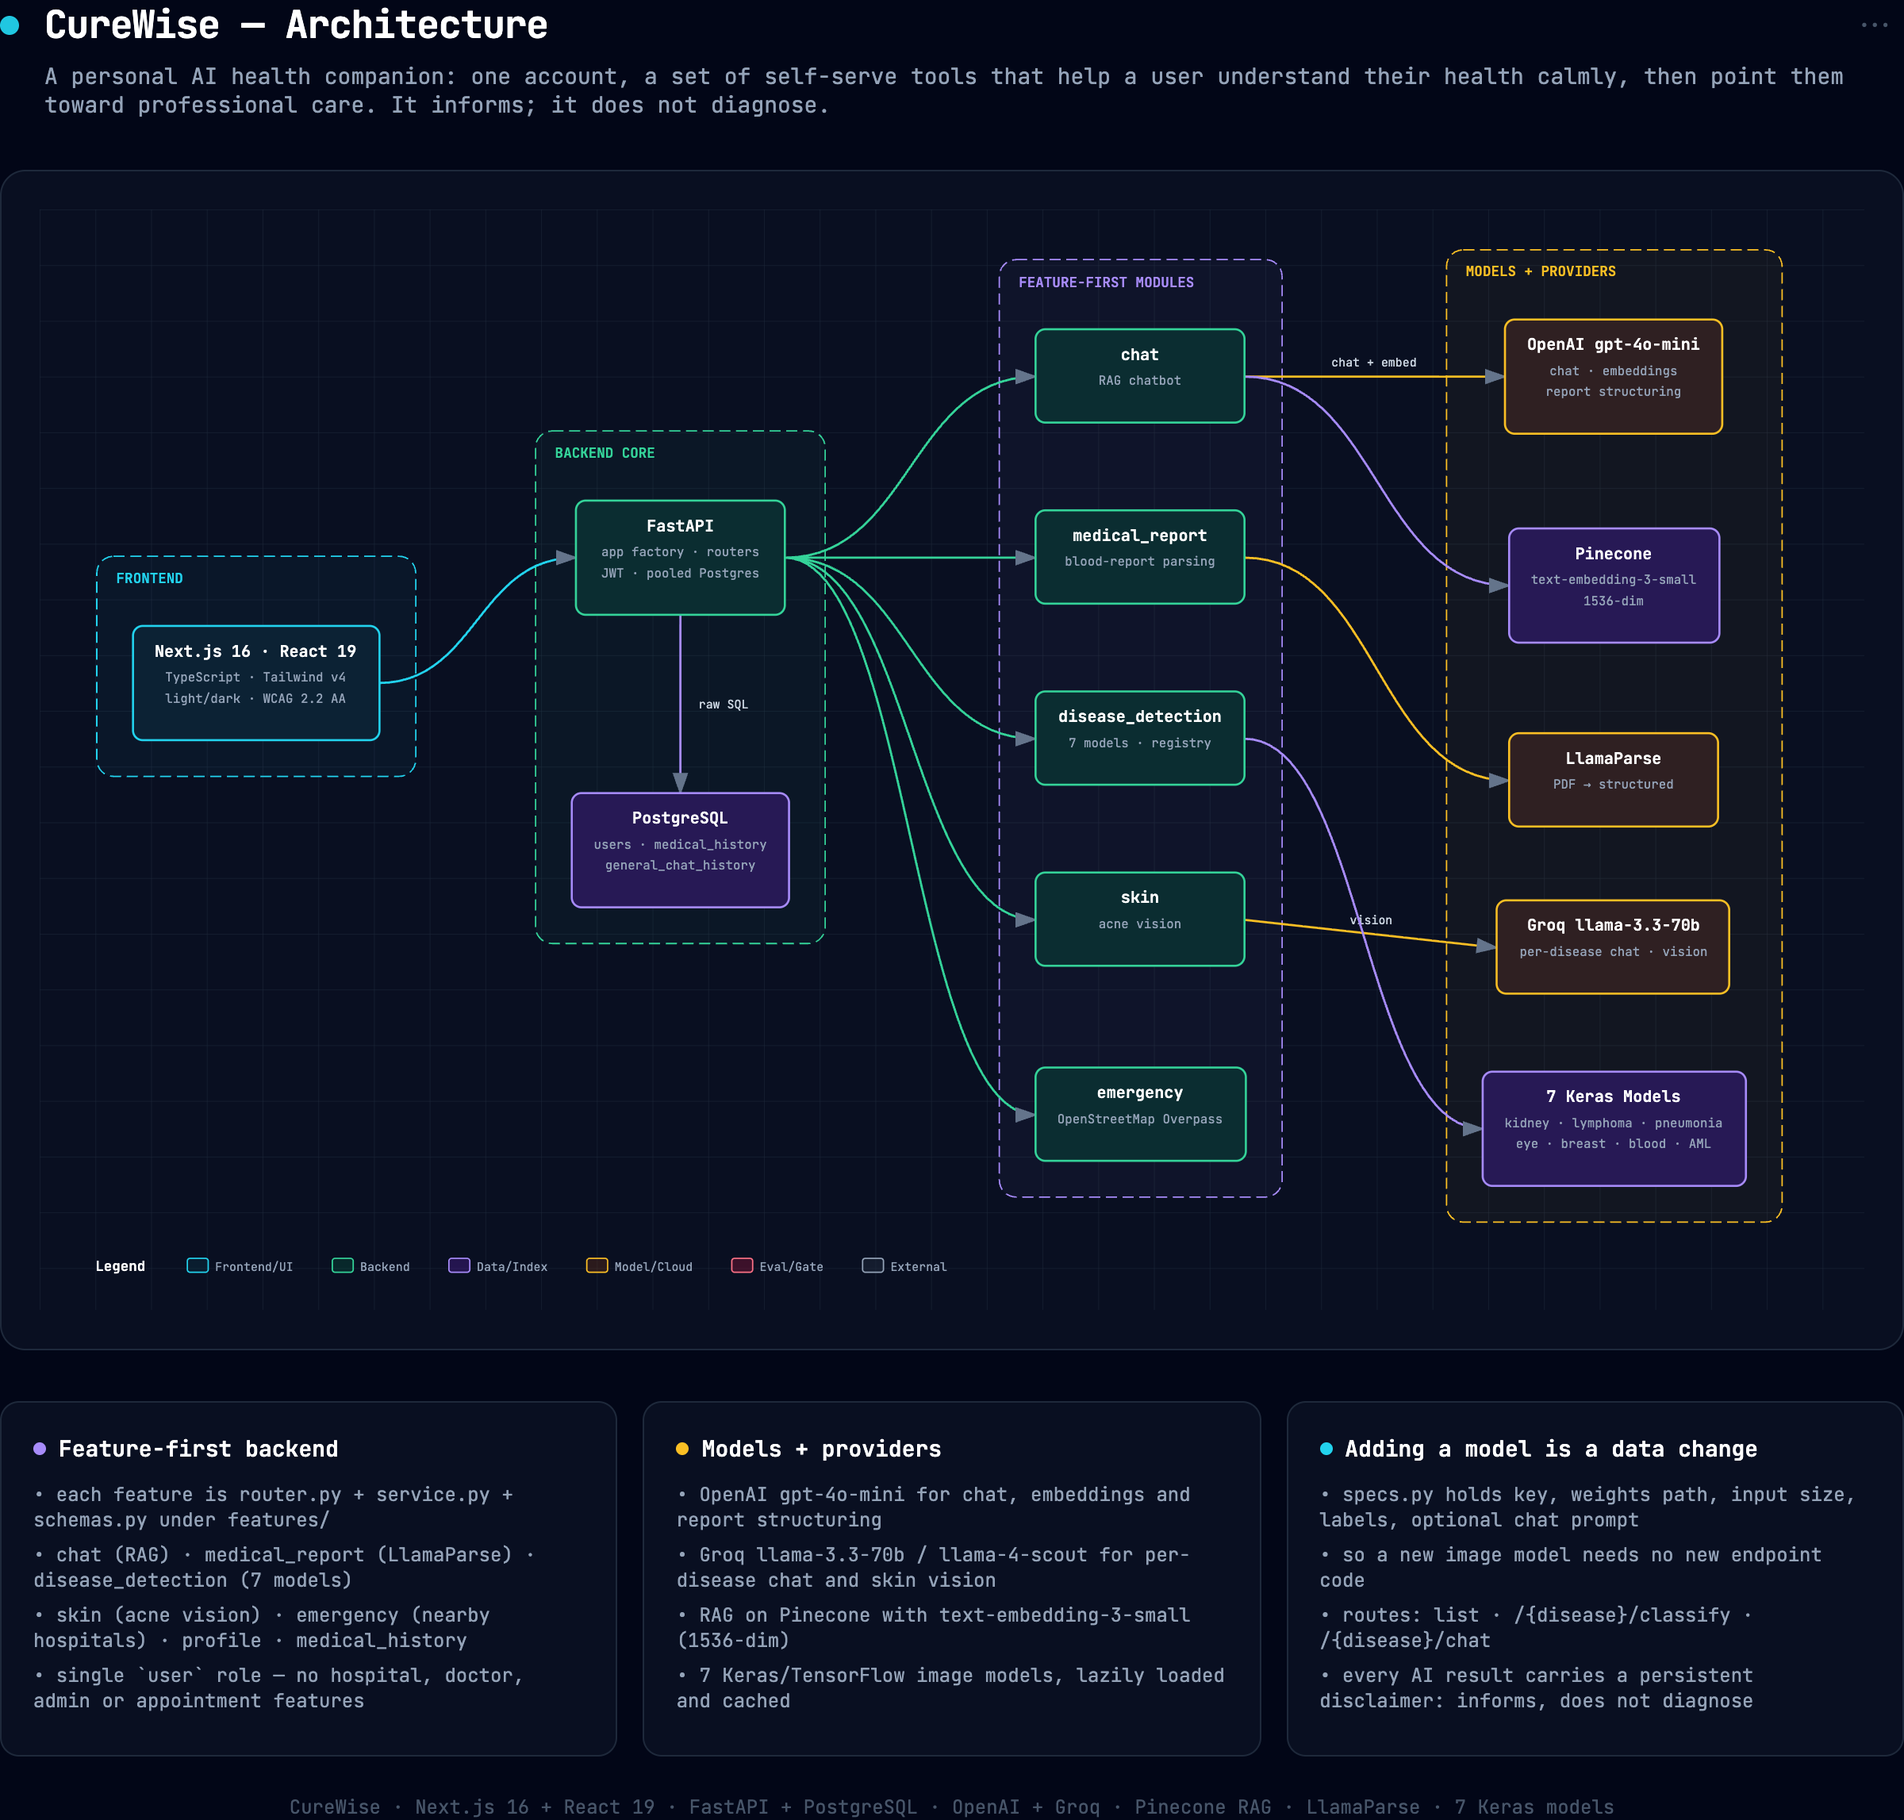
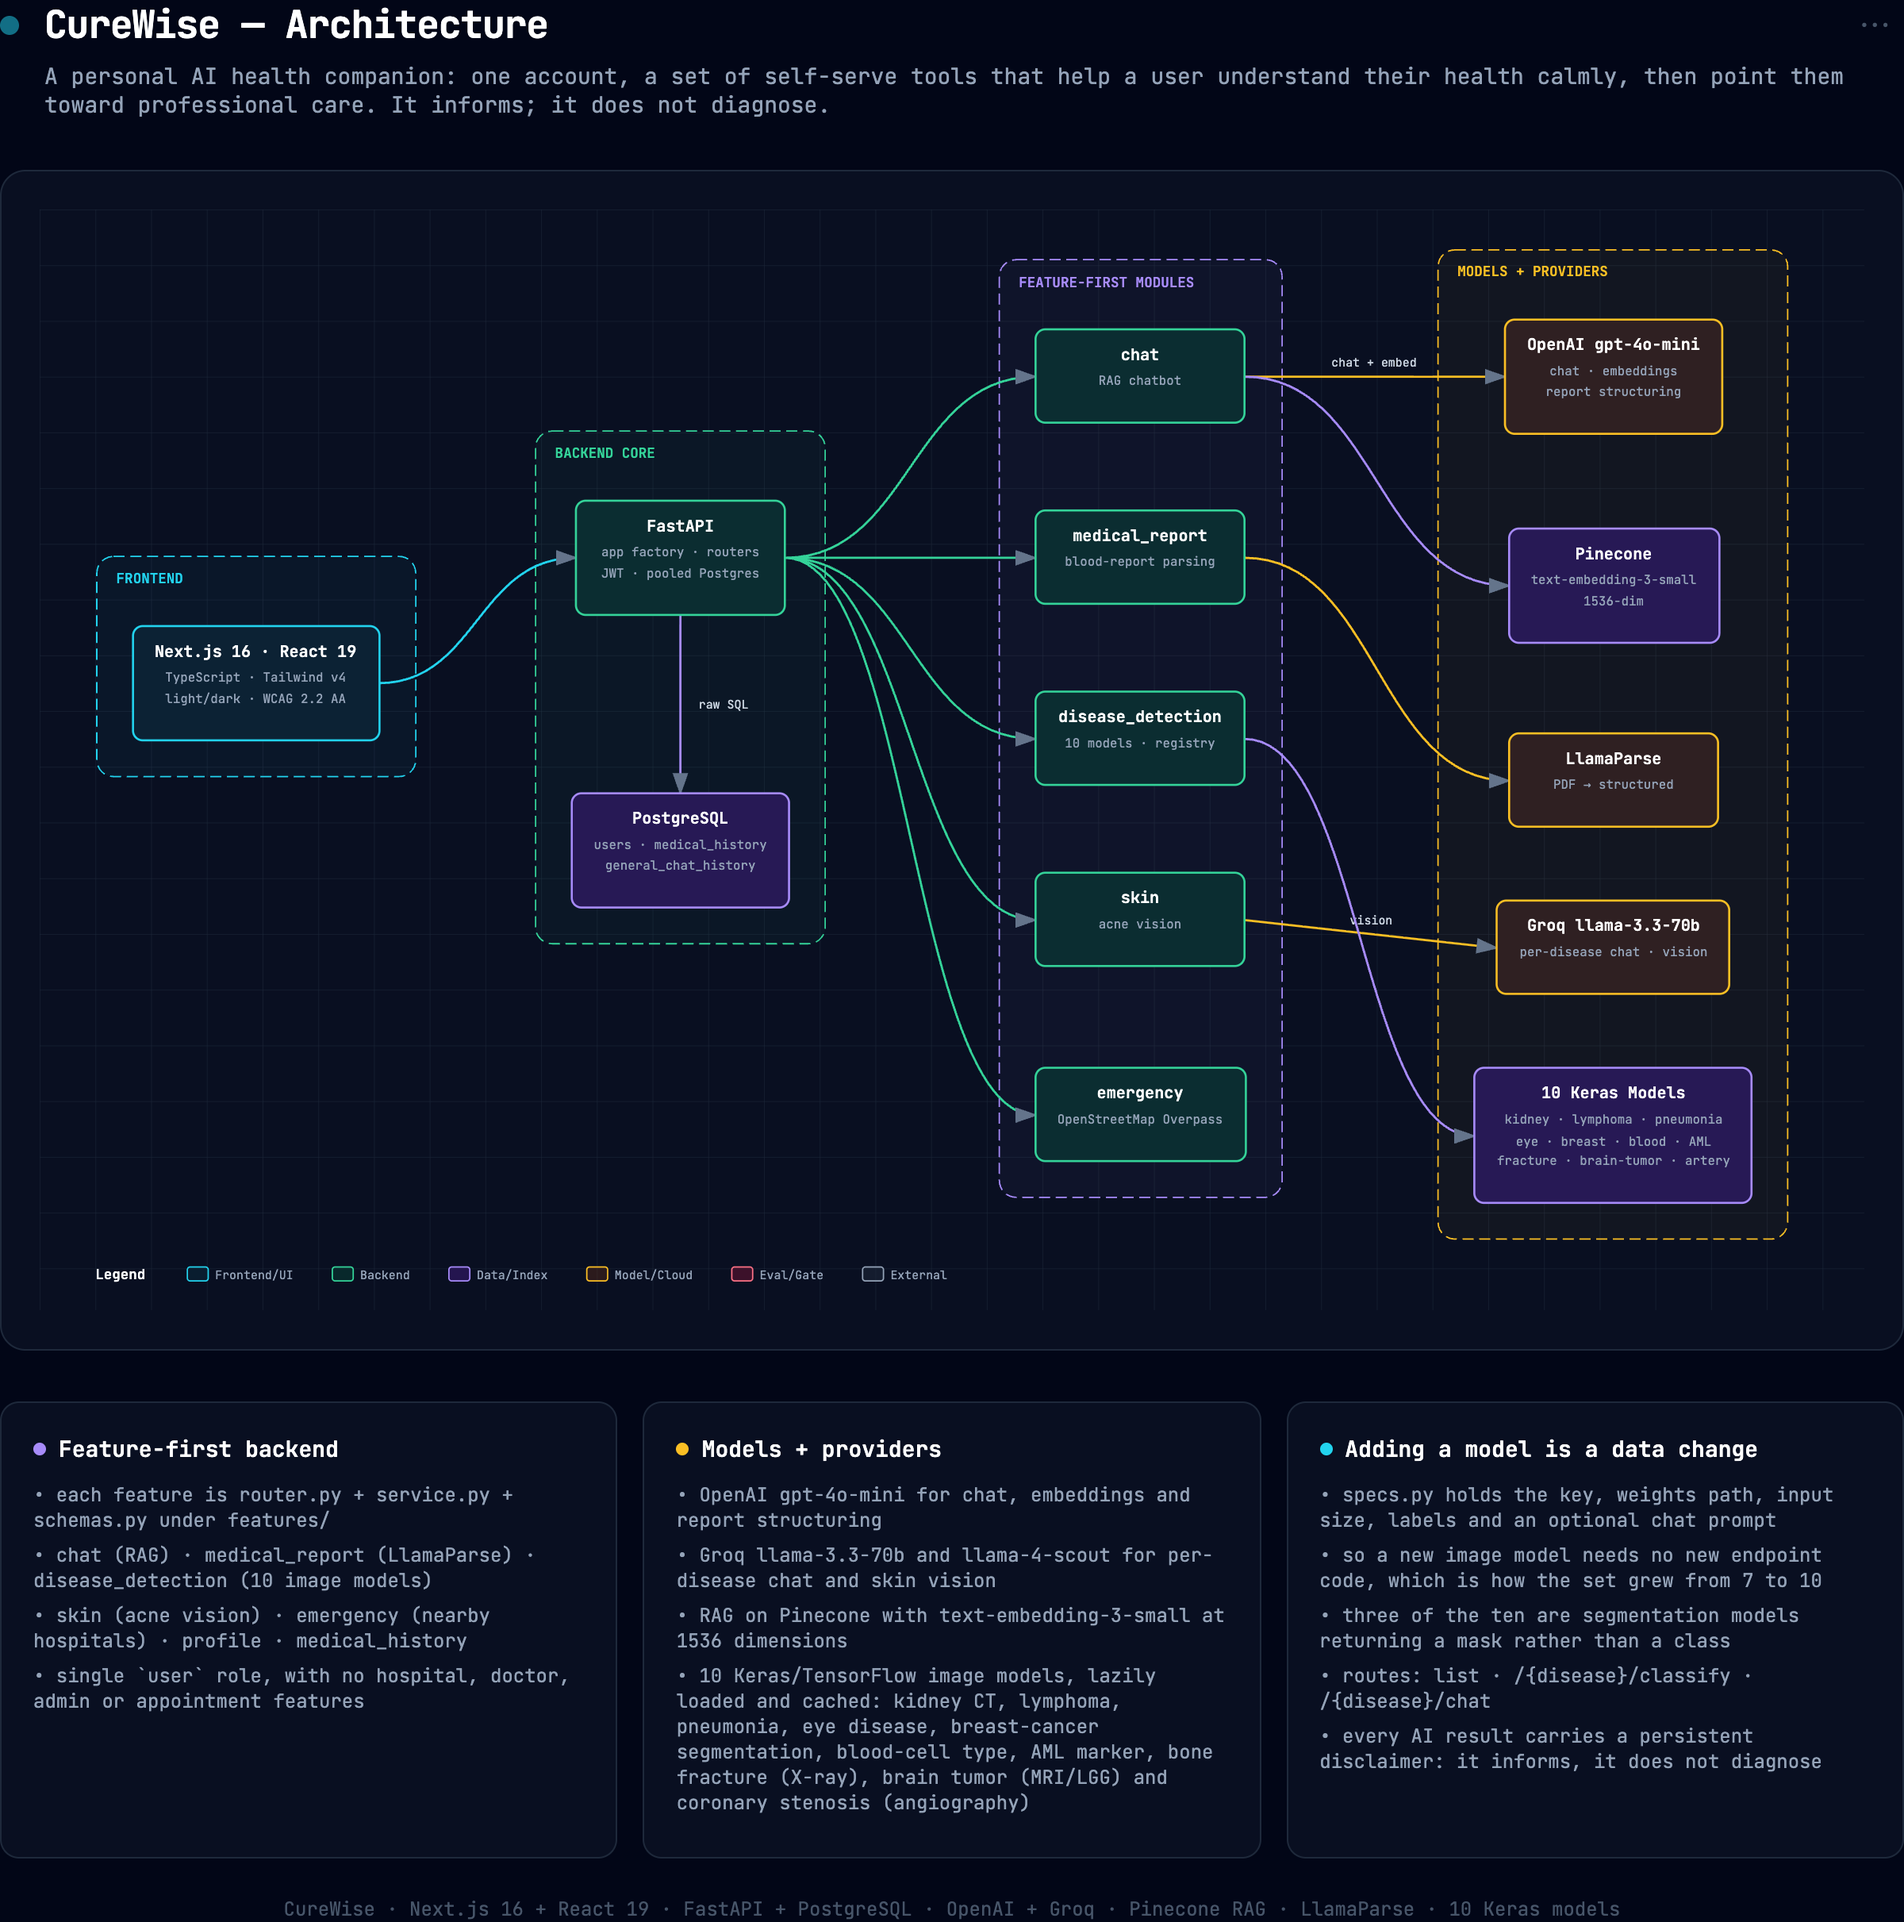
docs: update architecture diagram for the 10-model registry
The diagram said 7 Keras models. Commit 39c278f added fracture and
brain-tumor, and specs.py now registers 10: kidney, lymphoma, pneumonia,
eye-disease, breast-cancer, blood-cell-type, blood-marker (AML), fracture,
brain-tumor and artery.

- the model node now names all ten and the count is corrected everywhere
- the cards note that three of the ten are segmentation models returning a
  mask rather than a class
- and that the set grew from 7 to 10 without new endpoint code, which is
  the specs.py-as-data claim actually paying off

Regenerated with the geometry-validated generator, so layout assertions
still hold.

diff --git a/docs/assets/architecture.html b/docs/assets/architecture.html
@@ -195,8 +195,8 @@
 <text x="370" y="178" fill="#34d399" font-size="10" font-weight="600">BACKEND CORE</text>
 <rect x="689" y="36" width="203" height="673" rx="12" fill="rgba(167,139,250,0.04)" stroke="#a78bfa" stroke-width="1" stroke-dasharray="8,4"/>
 <text x="703" y="56" fill="#a78bfa" font-size="10" font-weight="600">FEATURE-FIRST MODULES</text>
-<rect x="1010" y="29" width="241" height="698" rx="12" fill="rgba(251,191,36,0.04)" stroke="#fbbf24" stroke-width="1" stroke-dasharray="8,4"/>
-<text x="1024" y="48" fill="#fbbf24" font-size="10" font-weight="600">MODELS + PROVIDERS</text>
+<rect x="1004" y="29" width="251" height="710" rx="12" fill="rgba(251,191,36,0.04)" stroke="#fbbf24" stroke-width="1" stroke-dasharray="8,4"/>
+<text x="1018" y="48" fill="#fbbf24" font-size="10" font-weight="600">MODELS + PROVIDERS</text>
 <path d="M 243 340 C 314 340, 314 250, 385 250" fill="none" stroke="#22d3ee" stroke-width="1.6" marker-end="url(#arrowhead)"/>
 <line x1="460" y1="291" x2="460" y2="419" stroke="#a78bfa" stroke-width="1.6" marker-end="url(#arrowhead)"/>
 <text x="491" y="358" fill="#cbd5e1" font-size="8.5" text-anchor="middle">raw SQL</text>
@@ -211,7 +211,7 @@
 <path d="M 865 250 C 960 250, 960 410, 1055 410" fill="none" stroke="#fbbf24" stroke-width="1.6" marker-end="url(#arrowhead)"/>
 <line x1="865" y1="510" x2="1046" y2="530" stroke="#fbbf24" stroke-width="1.6" marker-end="url(#arrowhead)"/>
 <text x="956" y="513" fill="#cbd5e1" font-size="8.5" text-anchor="middle">vision</text>
-<path d="M 865 380 C 950 380, 950 660, 1036 660" fill="none" stroke="#a78bfa" stroke-width="1.6" marker-end="url(#arrowhead)"/>
+<path d="M 865 380 C 948 380, 948 665, 1030 665" fill="none" stroke="#a78bfa" stroke-width="1.6" marker-end="url(#arrowhead)"/>
 <rect x="67" y="299" width="177" height="82" rx="7" fill="#0f172a"/>
 <rect x="67" y="299" width="177" height="82" rx="7" fill="rgba(8, 51, 68, 0.4)" stroke="#22d3ee" stroke-width="1.5"/>
 <text x="155" y="321" fill="#fff" font-size="11.5" font-weight="600" text-anchor="middle">Next.js 16 · React 19</text>
@@ -238,7 +238,7 @@
 <rect x="715" y="346" width="150" height="67" rx="7" fill="#0f172a"/>
 <rect x="715" y="346" width="150" height="67" rx="7" fill="rgba(6, 78, 59, 0.4)" stroke="#34d399" stroke-width="1.5"/>
 <text x="790" y="368" fill="#fff" font-size="11.5" font-weight="600" text-anchor="middle">disease_detection</text>
-<text x="790" y="386" fill="#94a3b8" font-size="9.0" text-anchor="middle">7 models · registry</text>
+<text x="790" y="386" fill="#94a3b8" font-size="9.0" text-anchor="middle">10 models · registry</text>
 <rect x="715" y="476" width="150" height="67" rx="7" fill="#0f172a"/>
 <rect x="715" y="476" width="150" height="67" rx="7" fill="rgba(6, 78, 59, 0.4)" stroke="#34d399" stroke-width="1.5"/>
 <text x="790" y="498" fill="#fff" font-size="11.5" font-weight="600" text-anchor="middle">skin</text>
@@ -265,27 +265,28 @@
 <rect x="1046" y="496" width="167" height="67" rx="7" fill="rgba(120, 53, 15, 0.3)" stroke="#fbbf24" stroke-width="1.5"/>
 <text x="1130" y="518" fill="#fff" font-size="11.5" font-weight="600" text-anchor="middle">Groq llama-3.3-70b</text>
 <text x="1130" y="536" fill="#94a3b8" font-size="9.0" text-anchor="middle">per-disease chat · vision</text>
-<rect x="1036" y="619" width="189" height="82" rx="7" fill="#0f172a"/>
-<rect x="1036" y="619" width="189" height="82" rx="7" fill="rgba(76, 29, 149, 0.4)" stroke="#a78bfa" stroke-width="1.5"/>
-<text x="1130" y="641" fill="#fff" font-size="11.5" font-weight="600" text-anchor="middle">7 Keras Models</text>
-<text x="1130" y="659" fill="#94a3b8" font-size="9.0" text-anchor="middle">kidney · lymphoma · pneumonia</text>
-<text x="1130" y="674" fill="#94a3b8" font-size="9.0" text-anchor="middle">eye · breast · blood · AML</text>
-<text x="40" y="762" fill="#fff" font-size="10" font-weight="600">Legend</text>
-<rect x="106" y="753" width="15" height="10" rx="2" fill="rgba(8, 51, 68, 0.4)" stroke="#22d3ee" stroke-width="1"/>
-<text x="126" y="762" fill="#94a3b8" font-size="8.5">Frontend/UI</text>
-<rect x="210.1" y="753" width="15" height="10" rx="2" fill="rgba(6, 78, 59, 0.4)" stroke="#34d399" stroke-width="1"/>
-<text x="230.1" y="762" fill="#94a3b8" font-size="8.5">Backend</text>
-<rect x="293.79999999999995" y="753" width="15" height="10" rx="2" fill="rgba(76, 29, 149, 0.4)" stroke="#a78bfa" stroke-width="1"/>
-<text x="313.79999999999995" y="762" fill="#94a3b8" font-size="8.5">Data/Index</text>
-<rect x="392.79999999999995" y="753" width="15" height="10" rx="2" fill="rgba(120, 53, 15, 0.3)" stroke="#fbbf24" stroke-width="1"/>
-<text x="412.79999999999995" y="762" fill="#94a3b8" font-size="8.5">Model/Cloud</text>
-<rect x="496.9" y="753" width="15" height="10" rx="2" fill="rgba(136, 19, 55, 0.4)" stroke="#fb7185" stroke-width="1"/>
-<text x="516.9" y="762" fill="#94a3b8" font-size="8.5">Eval/Gate</text>
-<rect x="590.8" y="753" width="15" height="10" rx="2" fill="rgba(30, 41, 59, 0.5)" stroke="#94a3b8" stroke-width="1"/>
-<text x="610.8" y="762" fill="#94a3b8" font-size="8.5">External</text>
+<rect x="1030" y="616" width="199" height="97" rx="7" fill="#0f172a"/>
+<rect x="1030" y="616" width="199" height="97" rx="7" fill="rgba(76, 29, 149, 0.4)" stroke="#a78bfa" stroke-width="1.5"/>
+<text x="1130" y="638" fill="#fff" font-size="11.5" font-weight="600" text-anchor="middle">10 Keras Models</text>
+<text x="1130" y="656" fill="#94a3b8" font-size="9.0" text-anchor="middle">kidney · lymphoma · pneumonia</text>
+<text x="1130" y="672" fill="#94a3b8" font-size="9.0" text-anchor="middle">eye · breast · blood · AML</text>
+<text x="1130" y="686" fill="#94a3b8" font-size="9.0" text-anchor="middle">fracture · brain-tumor · artery</text>
+<text x="40" y="768" fill="#fff" font-size="10" font-weight="600">Legend</text>
+<rect x="106" y="759" width="15" height="10" rx="2" fill="rgba(8, 51, 68, 0.4)" stroke="#22d3ee" stroke-width="1"/>
+<text x="126" y="768" fill="#94a3b8" font-size="8.5">Frontend/UI</text>
+<rect x="210.1" y="759" width="15" height="10" rx="2" fill="rgba(6, 78, 59, 0.4)" stroke="#34d399" stroke-width="1"/>
+<text x="230.1" y="768" fill="#94a3b8" font-size="8.5">Backend</text>
+<rect x="293.79999999999995" y="759" width="15" height="10" rx="2" fill="rgba(76, 29, 149, 0.4)" stroke="#a78bfa" stroke-width="1"/>
+<text x="313.79999999999995" y="768" fill="#94a3b8" font-size="8.5">Data/Index</text>
+<rect x="392.79999999999995" y="759" width="15" height="10" rx="2" fill="rgba(120, 53, 15, 0.3)" stroke="#fbbf24" stroke-width="1"/>
+<text x="412.79999999999995" y="768" fill="#94a3b8" font-size="8.5">Model/Cloud</text>
+<rect x="496.9" y="759" width="15" height="10" rx="2" fill="rgba(136, 19, 55, 0.4)" stroke="#fb7185" stroke-width="1"/>
+<text x="516.9" y="768" fill="#94a3b8" font-size="8.5">Eval/Gate</text>
+<rect x="590.8" y="759" width="15" height="10" rx="2" fill="rgba(30, 41, 59, 0.5)" stroke="#94a3b8" stroke-width="1"/>
+<text x="610.8" y="768" fill="#94a3b8" font-size="8.5">External</text>
 </svg></div>
-    <div class="cards"><div class="card"><div class="card-header"><div class="card-dot violet"></div><h3>Feature-first backend</h3></div><ul><li>• each feature is router.py + service.py + schemas.py under features/</li><li>• chat (RAG) · medical_report (LlamaParse) · disease_detection (7 models)</li><li>• skin (acne vision) · emergency (nearby hospitals) · profile · medical_history</li><li>• single `user` role — no hospital, doctor, admin or appointment features</li></ul></div><div class="card"><div class="card-header"><div class="card-dot amber"></div><h3>Models + providers</h3></div><ul><li>• OpenAI gpt-4o-mini for chat, embeddings and report structuring</li><li>• Groq llama-3.3-70b / llama-4-scout for per-disease chat and skin vision</li><li>• RAG on Pinecone with text-embedding-3-small (1536-dim)</li><li>• 7 Keras/TensorFlow image models, lazily loaded and cached</li></ul></div><div class="card"><div class="card-header"><div class="card-dot cyan"></div><h3>Adding a model is a data change</h3></div><ul><li>• specs.py holds key, weights path, input size, labels, optional chat prompt</li><li>• so a new image model needs no new endpoint code</li><li>• routes: list · /{disease}/classify · /{disease}/chat</li><li>• every AI result carries a persistent disclaimer: informs, does not diagnose</li></ul></div></div>
-    <p class="footer">CureWise · Next.js 16 + React 19 · FastAPI + PostgreSQL · OpenAI + Groq · Pinecone RAG · LlamaParse · 7 Keras models</p>
+    <div class="cards"><div class="card"><div class="card-header"><div class="card-dot violet"></div><h3>Feature-first backend</h3></div><ul><li>• each feature is router.py + service.py + schemas.py under features/</li><li>• chat (RAG) · medical_report (LlamaParse) · disease_detection (10 image models)</li><li>• skin (acne vision) · emergency (nearby hospitals) · profile · medical_history</li><li>• single `user` role, with no hospital, doctor, admin or appointment features</li></ul></div><div class="card"><div class="card-header"><div class="card-dot amber"></div><h3>Models + providers</h3></div><ul><li>• OpenAI gpt-4o-mini for chat, embeddings and report structuring</li><li>• Groq llama-3.3-70b and llama-4-scout for per-disease chat and skin vision</li><li>• RAG on Pinecone with text-embedding-3-small at 1536 dimensions</li><li>• 10 Keras/TensorFlow image models, lazily loaded and cached: kidney CT, lymphoma, pneumonia, eye disease, breast-cancer segmentation, blood-cell type, AML marker, bone fracture (X-ray), brain tumor (MRI/LGG) and coronary stenosis (angiography)</li></ul></div><div class="card"><div class="card-header"><div class="card-dot cyan"></div><h3>Adding a model is a data change</h3></div><ul><li>• specs.py holds the key, weights path, input size, labels and an optional chat prompt</li><li>• so a new image model needs no new endpoint code, which is how the set grew from 7 to 10</li><li>• three of the ten are segmentation models returning a mask rather than a class</li><li>• routes: list · /{disease}/classify · /{disease}/chat</li><li>• every AI result carries a persistent disclaimer: it informs, it does not diagnose</li></ul></div></div>
+    <p class="footer">CureWise · Next.js 16 + React 19 · FastAPI + PostgreSQL · OpenAI + Groq · Pinecone RAG · LlamaParse · 10 Keras models</p>
   </div>
 <script>
     async function copyAsImage(btn) {
